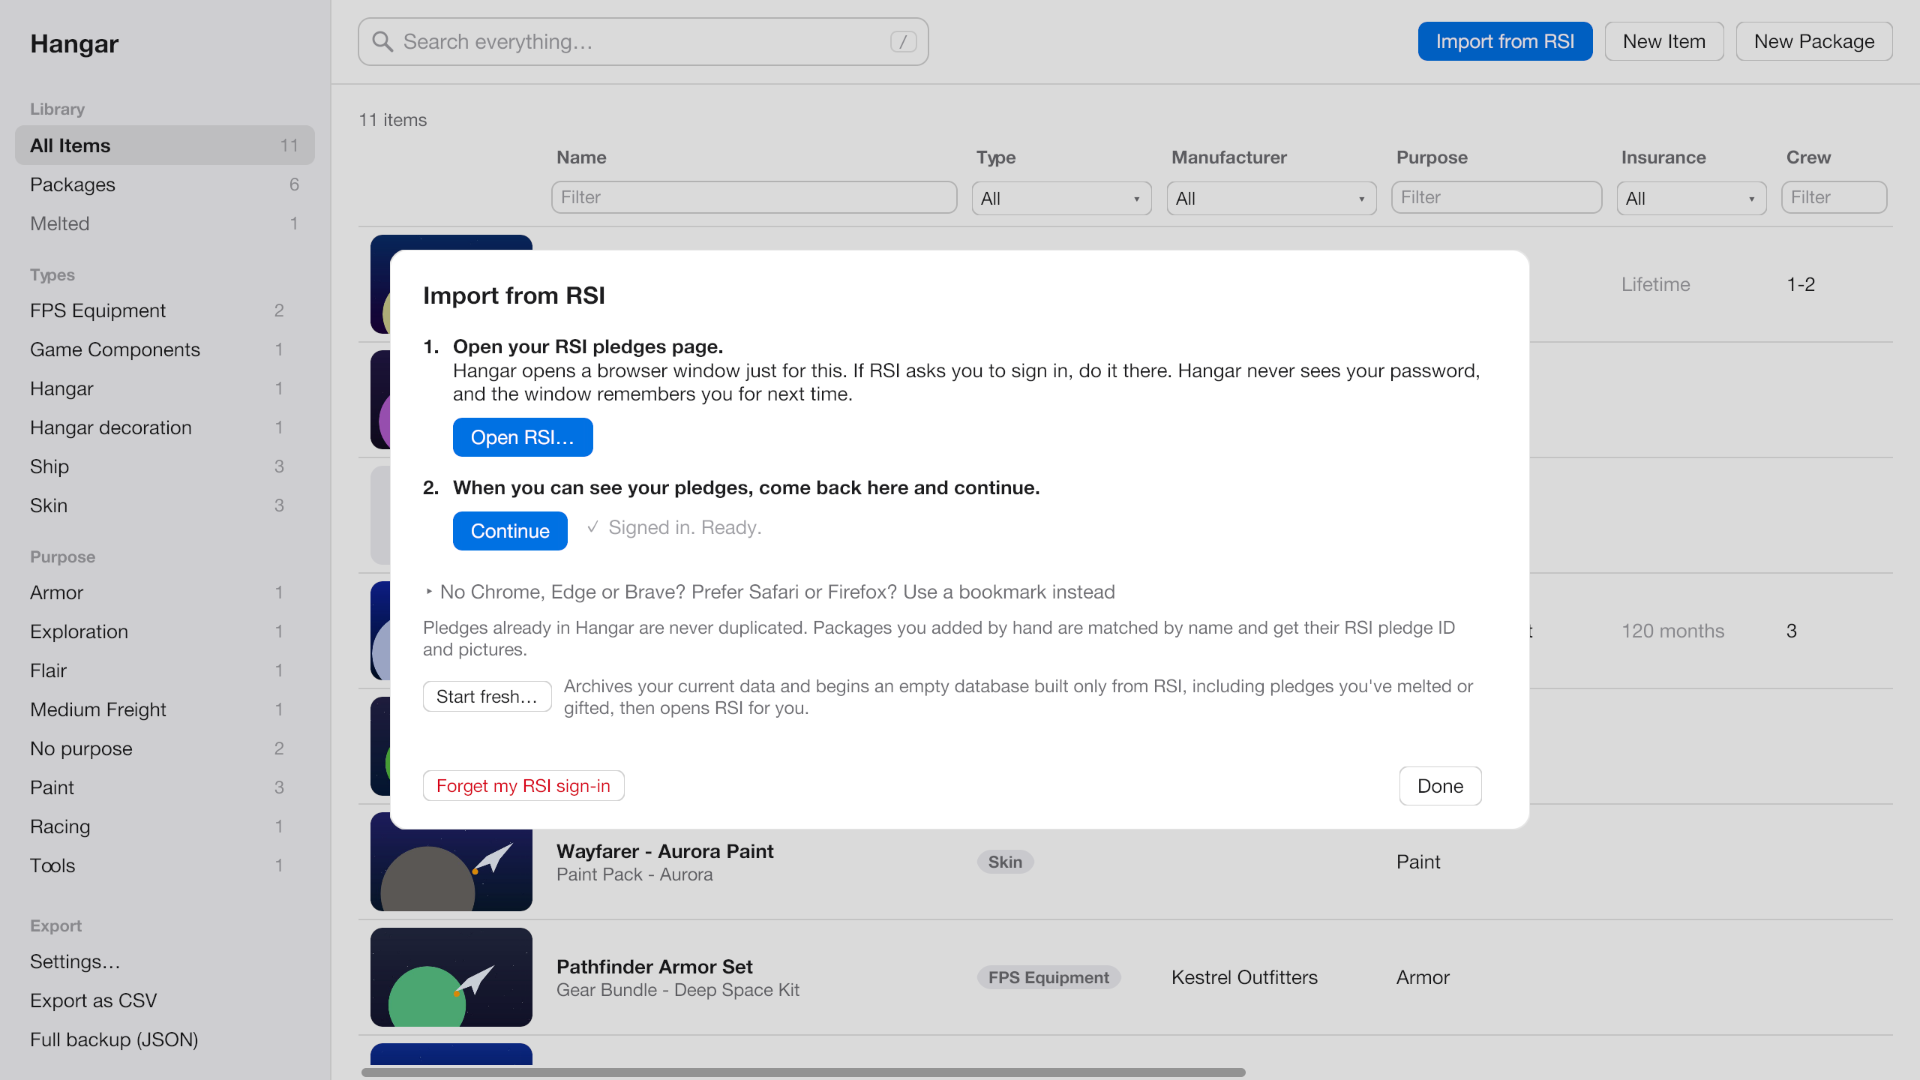
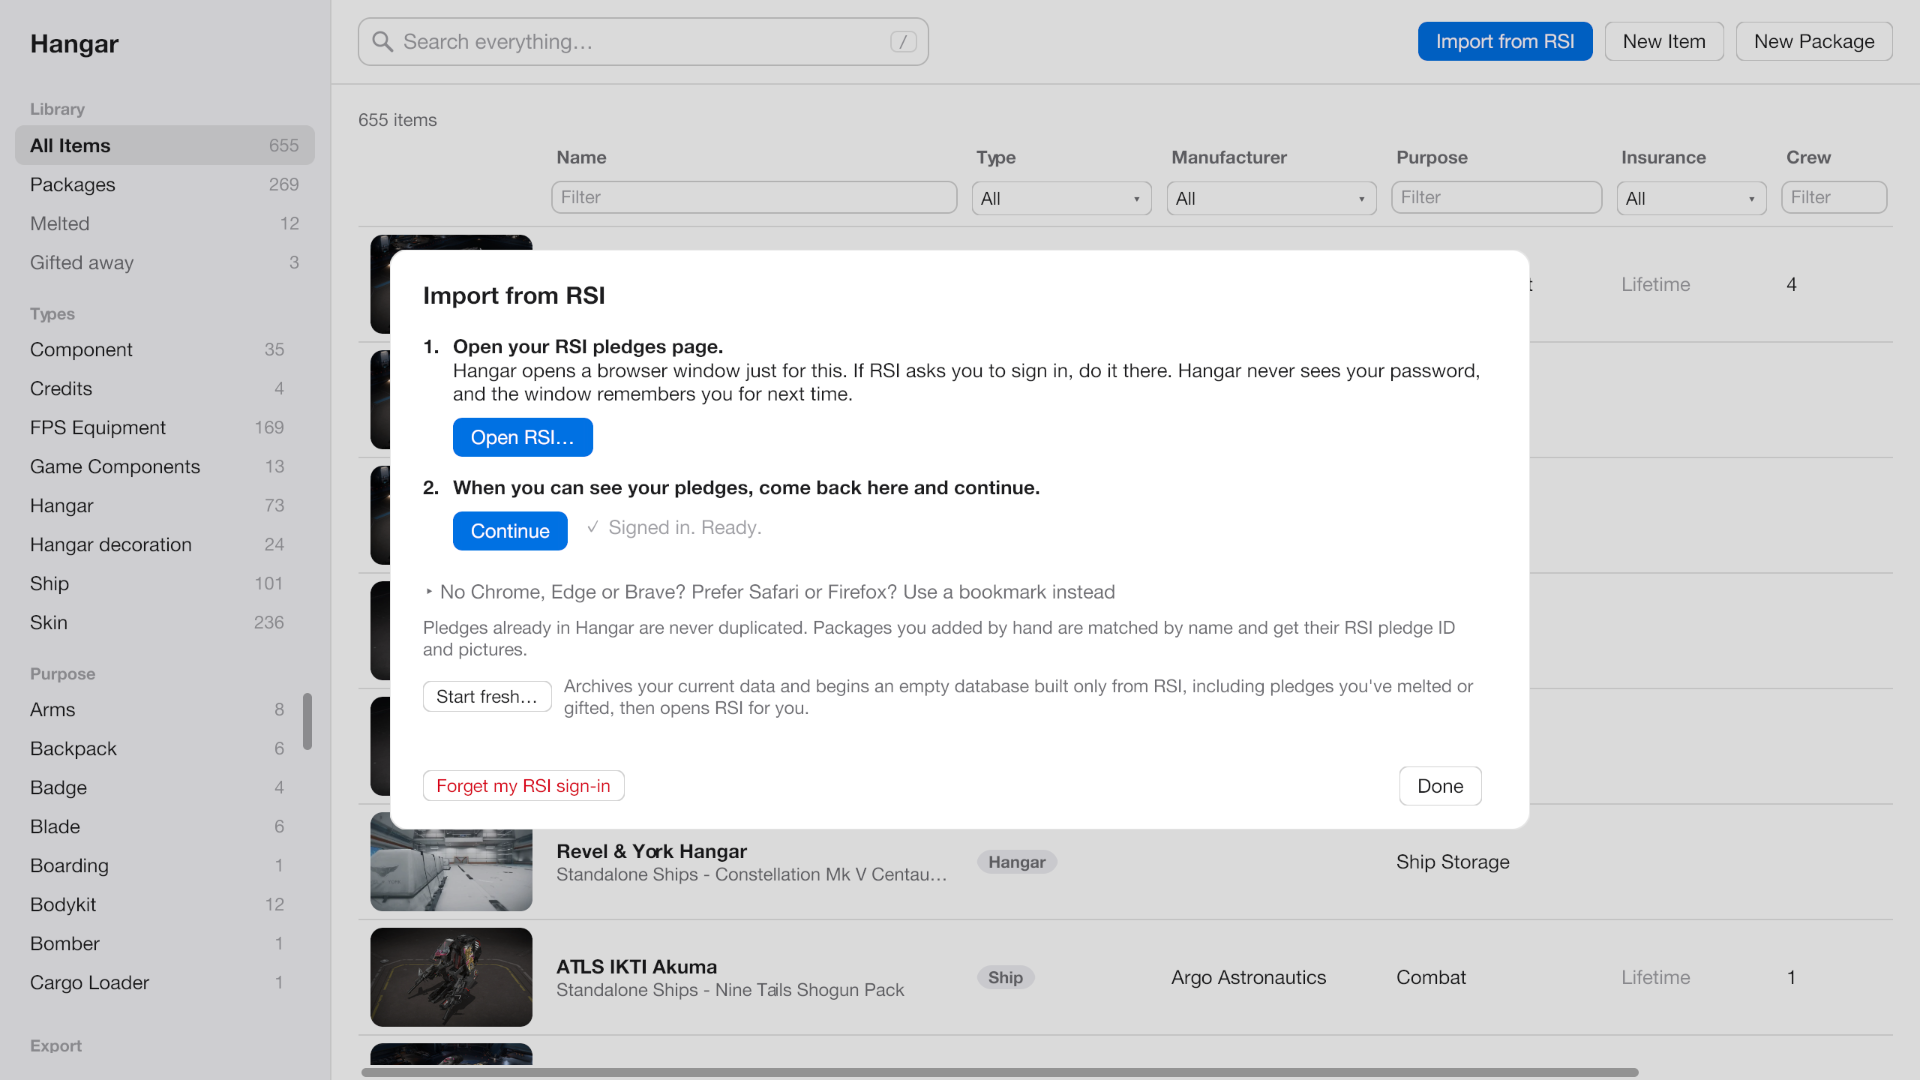
README pictures: show a real hangar instead of invented names
The screenshots now come from a scrubbed copy of a real hangar: every
price, value, date, pledge ID, ship ID, upgrade detail, gift recipient,
note and custom ship name is removed from the copy before it is drawn,
and amounts and IDs are hidden on screen too. Without a source folder
the test still draws the invented sample hangar.

diff --git a/docs_screenshots_test.go b/docs_screenshots_test.go
@@ -1,9 +1,11 @@
 package main
 
-// Pictures for the README, drawn off-screen from a made-up sample hangar (invented ships, makers and pictures), so no
-// one's real data ever appears in them. Run with HANGAR_DOCS_DIR set to the folder for the PNG files:
+// Pictures for the README, drawn off-screen. With HANGAR_DOCS_SOURCE set to a Hangar data folder they show that real
+// hangar, from a scrubbed copy: the folder itself is only read, and the copy loses every price, value, date, pledge ID,
+// ship ID, upgrade detail, gift recipient, note and custom ship name before anything is drawn. Without it, they show a
+// made-up sample hangar. Run with HANGAR_DOCS_DIR set to the folder for the PNG files:
 //
-//	HANGAR_DOCS_DIR=docs go test -run TestDocsScreenshots .
+//	HANGAR_DOCS_DIR=docs HANGAR_DOCS_SOURCE=~/Library/Application\ Support/Hangar/data go test -run TestDocsScreenshots .
 
 import (
 	"bytes"
@@ -126,37 +128,19 @@ func TestDocsScreenshots(t *testing.T) {
 	baseDir = home
 	setDataDir(filepath.Join(home, "data"))
 	setPort(configuredPort())
-	conn, err := connect()
-	if err != nil {
-		t.Fatal(err)
+	if source := os.Getenv("HANGAR_DOCS_SOURCE"); source != "" {
+		copyScrubbed(t, source)
+	} else {
+		makeSample(t)
 	}
-	store = conn
-	for _, p := range samplePackages {
-		pkg, err := createPackage(store, map[string]any{"name": p.name, "pledge_date": p.date, "purchase_value": p.purchase,
-			"value": p.value, "rsi_pledge_id": p.pledgeID, "status": p.status})
-		if err != nil {
-			t.Fatal(err)
-		}
-		if p.status == "melted" {
-			updatePackage(store, num(pkg["id"]), map[string]any{"status_date": "2024-01-15", "status_note": "Store credit $50.00 USD"})
-		}
-		for _, it := range p.items {
-			row, err := createItem(store, map[string]any{"name": it.name, "type": it.typ, "manufacturer": it.maker, "purpose": it.purpose,
-				"insurance": it.insurance, "crew": it.crew, "storage_scu": it.scu, "flight_ready": it.flight, "package_id": float64(num(pkg["id"]))})
-			if err != nil {
-				t.Fatal(err)
-			}
-			if it.picture > 0 {
-				if _, err := saveItemImage(num(row["id"]), samplePicture(it.picture), "image/jpeg"); err != nil {
-					t.Fatal(err)
-				}
-			}
-			if it.name == "Longhaul Freighter" {
-				store.Exec("UPDATE items SET upgrade_history = ? WHERE id = ?",
-					`[{"from":"Courier Mk I","to":"Longhaul Freighter","date":"2026-01-10T18:00","upgrade_id":"20000001","value":"$180.00 USD","price":"$40.00 USD"}]`, num(row["id"]))
-			}
-		}
-	}
+	// whatever is left that looks like money or an ID is hidden too, and the date and money columns are off
+	v := settingsValues()
+	v["hide_amounts"], v["hide_ids"] = true, true
+	v["hidden_columns"] = []any{"pledge_date", "purchase_value", "value", "pledge_id", "membership_id"}
+	v["thumb_size"], v["font_size"], v["density"] = "medium", "default", "comfortable"
+	settingsMu.Lock()
+	writeSettings(v)
+	settingsMu.Unlock()
 
 	a := newApp(new(app.Window))
 	a.reload()
@@ -196,11 +180,98 @@ func TestDocsScreenshots(t *testing.T) {
 	}
 	os.MkdirAll(out, 0o755)
 	shoot("screenshot-items.png", "light", func() { a.view.Mode = "items" })
-	shoot("screenshot-search.png", "light", func() { a.view.Query = "freighter"; a.search.SetText("freighter") })
+	query := "freighter"
+	if os.Getenv("HANGAR_DOCS_SOURCE") != "" {
+		query = "constellation"
+	}
+	shoot("screenshot-search.png", "light", func() { a.view.Query = query; a.search.SetText(query) })
 	shoot("screenshot-packages.png", "dark", func() { a.view.Query = ""; a.search.SetText(""); a.view.Mode = "packages" })
 	shoot("screenshot-import.png", "light", func() {
 		a.view.Mode = "items"
 		a.rsiDlg = &rsiDialog{stop: make(chan struct{}), checked: true, browser: "Google Chrome", open: true, onRSI: true, signedIn: true}
 	})
 	a.rsiDlg = nil
+}
+
+// copyScrubbed copies a real hangar (database and pictures) and removes from the copy everything personal or financial.
+func copyScrubbed(t *testing.T, source string) {
+	if err := os.MkdirAll(imageDir, 0o755); err != nil {
+		t.Fatal(err)
+	}
+	if err := copyDatabaseFile(filepath.Join(source, "ships.db"), dbPath); err != nil {
+		t.Fatal(err)
+	}
+	conn, err := connect()
+	if err != nil {
+		t.Fatal(err)
+	}
+	store = conn
+	for _, q := range []string{
+		"UPDATE packages SET pledge_date = NULL, value = NULL, purchase_value = NULL, rsi_pledge_id = NULL, status_date = NULL, " +
+			"status_note = NULL, gifted_to = NULL, notes = NULL, gift_pending = 0",
+		"UPDATE items SET membership_id = NULL, custom_name = NULL, notes = NULL",
+		"DELETE FROM meta",
+	} {
+		if _, err := store.Exec(q); err != nil {
+			t.Fatal(err)
+		}
+	}
+	// upgrades keep only which ship became which: no dates, prices, values or upgrade IDs
+	rows := mustRows(store, "SELECT id, upgrade_history FROM items WHERE upgrade_history IS NOT NULL")
+	for _, r := range rows {
+		steps := []map[string]string{}
+		for _, h := range parseHistory(txt(r["upgrade_history"])) {
+			steps = append(steps, map[string]string{"from": h.From, "to": h.To})
+		}
+		mustExec(store, "UPDATE items SET upgrade_history = ? WHERE id = ?", toJSON(steps), r["id"])
+	}
+	for _, r := range mustRows(store, "SELECT image FROM items WHERE image IS NOT NULL") {
+		name := filepath.Base(txt(r["image"]))
+		if st, err := os.Stat(filepath.Join(source, "images", name)); err == nil && st.Mode().IsRegular() {
+			copyFile(filepath.Join(source, "images", name), filepath.Join(imageDir, name), 0o644)
+		}
+	}
+	// nothing that was wiped may survive anywhere in the copy
+	left := queryInt(store, "SELECT COUNT(*) FROM packages WHERE pledge_date IS NOT NULL OR value IS NOT NULL OR purchase_value IS NOT NULL "+
+		"OR rsi_pledge_id IS NOT NULL OR gifted_to IS NOT NULL OR status_note IS NOT NULL OR notes IS NOT NULL")
+	left += queryInt(store, "SELECT COUNT(*) FROM items WHERE membership_id IS NOT NULL OR custom_name IS NOT NULL OR notes IS NOT NULL "+
+		"OR upgrade_history LIKE '%date%' OR upgrade_history LIKE '%price%' OR upgrade_history LIKE '%upgrade_id%'")
+	if left != 0 {
+		t.Fatalf("%d rows still hold personal or financial details", left)
+	}
+}
+
+func makeSample(t *testing.T) {
+	conn, err := connect()
+	if err != nil {
+		t.Fatal(err)
+	}
+	store = conn
+	for _, p := range samplePackages {
+		pkg, err := createPackage(store, map[string]any{"name": p.name, "pledge_date": p.date, "purchase_value": p.purchase,
+			"value": p.value, "rsi_pledge_id": p.pledgeID, "status": p.status})
+		if err != nil {
+			t.Fatal(err)
+		}
+		if p.status == "melted" {
+			updatePackage(store, num(pkg["id"]), map[string]any{"status_date": "2024-01-15", "status_note": "Store credit $50.00 USD"})
+		}
+		for _, it := range p.items {
+			row, err := createItem(store, map[string]any{"name": it.name, "type": it.typ, "manufacturer": it.maker, "purpose": it.purpose,
+				"insurance": it.insurance, "crew": it.crew, "storage_scu": it.scu, "flight_ready": it.flight, "package_id": float64(num(pkg["id"]))})
+			if err != nil {
+				t.Fatal(err)
+			}
+			if it.picture > 0 {
+				if _, err := saveItemImage(num(row["id"]), samplePicture(it.picture), "image/jpeg"); err != nil {
+					t.Fatal(err)
+				}
+			}
+			if it.name == "Longhaul Freighter" {
+				store.Exec("UPDATE items SET upgrade_history = ? WHERE id = ?",
+					`[{"from":"Courier Mk I","to":"Longhaul Freighter","date":"2026-01-10T18:00","upgrade_id":"20000001","value":"$180.00 USD","price":"$40.00 USD"}]`, num(row["id"]))
+			}
+		}
+	}
+
 }

diff --git a/NOTICE.md b/NOTICE.md
@@ -8,7 +8,9 @@ Games, Roberts Space Industries, or any of their affiliates.
 Star Citizen®, Squadron 42®, Roberts Space Industries® and Cloud Imperium® are registered trademarks of Cloud Imperium
 Rights LLC and Cloud Imperium Rights Ltd. Ship, manufacturer and item names that Hangar shows come from your own RSI
 account and belong to their owners. Hangar contains none of RSI's pictures or text: pictures are downloaded from your
-own pledges, onto your own computer, when you import.
+own pledges, onto your own computer, when you import. The pictures in this repository's `docs` folder show a real hangar,
+with RSI's ship and item pictures, as an example of what Hangar displays; those pictures and names belong to Cloud
+Imperium.
 
 ## What Hangar does with your RSI account
 

diff --git a/README.md b/README.md
@@ -101,7 +101,8 @@ scripts/build-linux.sh                                                          
 More checks, run with environment variables: `HANGAR_LIVE_BROWSER=1` drives a real headless Chrome/Edge/Brave
 through the RSI window against a stand-in RSI site; `HANGAR_SNAPSHOT_DATA=<a copy of a Hangar folder>` exercises
 the window's actions on real data and, with `HANGAR_SNAPSHOT_DIR`, draws every screen to PNG files;
-`HANGAR_DOCS_DIR=docs` redraws the README pictures from an invented sample hangar.
+`HANGAR_DOCS_DIR=docs` redraws the README pictures (from an invented sample hangar, or with `HANGAR_DOCS_SOURCE` set
+to a Hangar data folder, from a copy of it with every price, value, date, ID, note and gift recipient removed).
 
 ### How it's built
 
